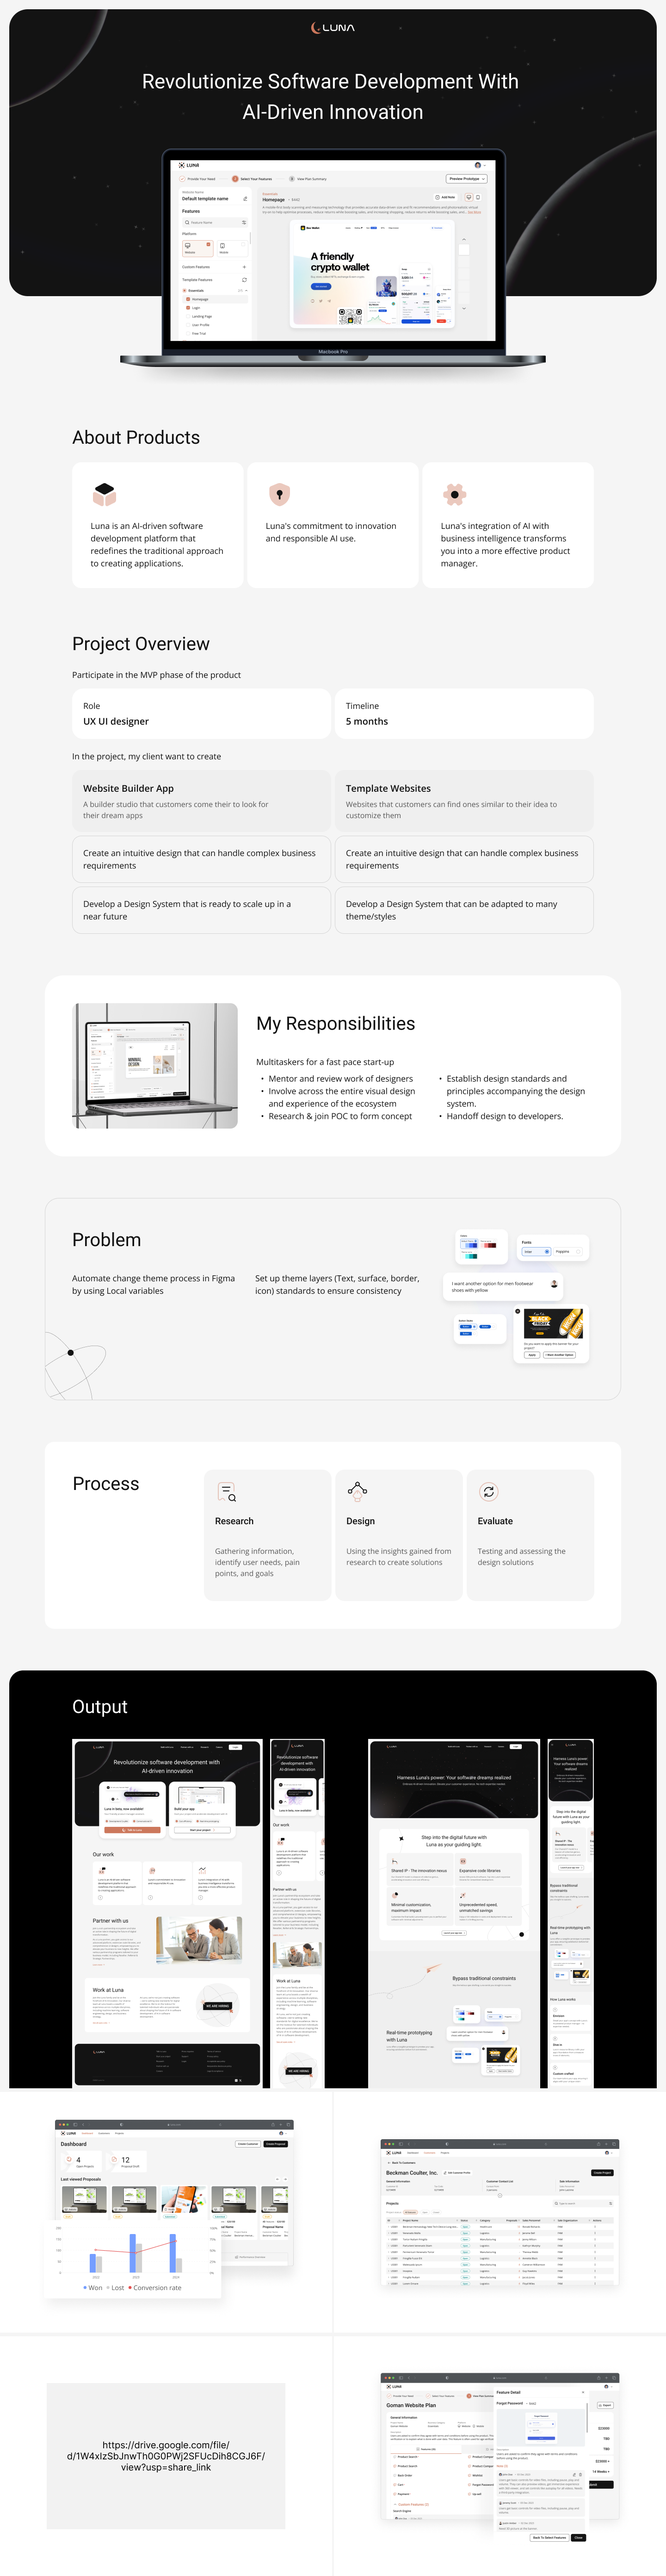
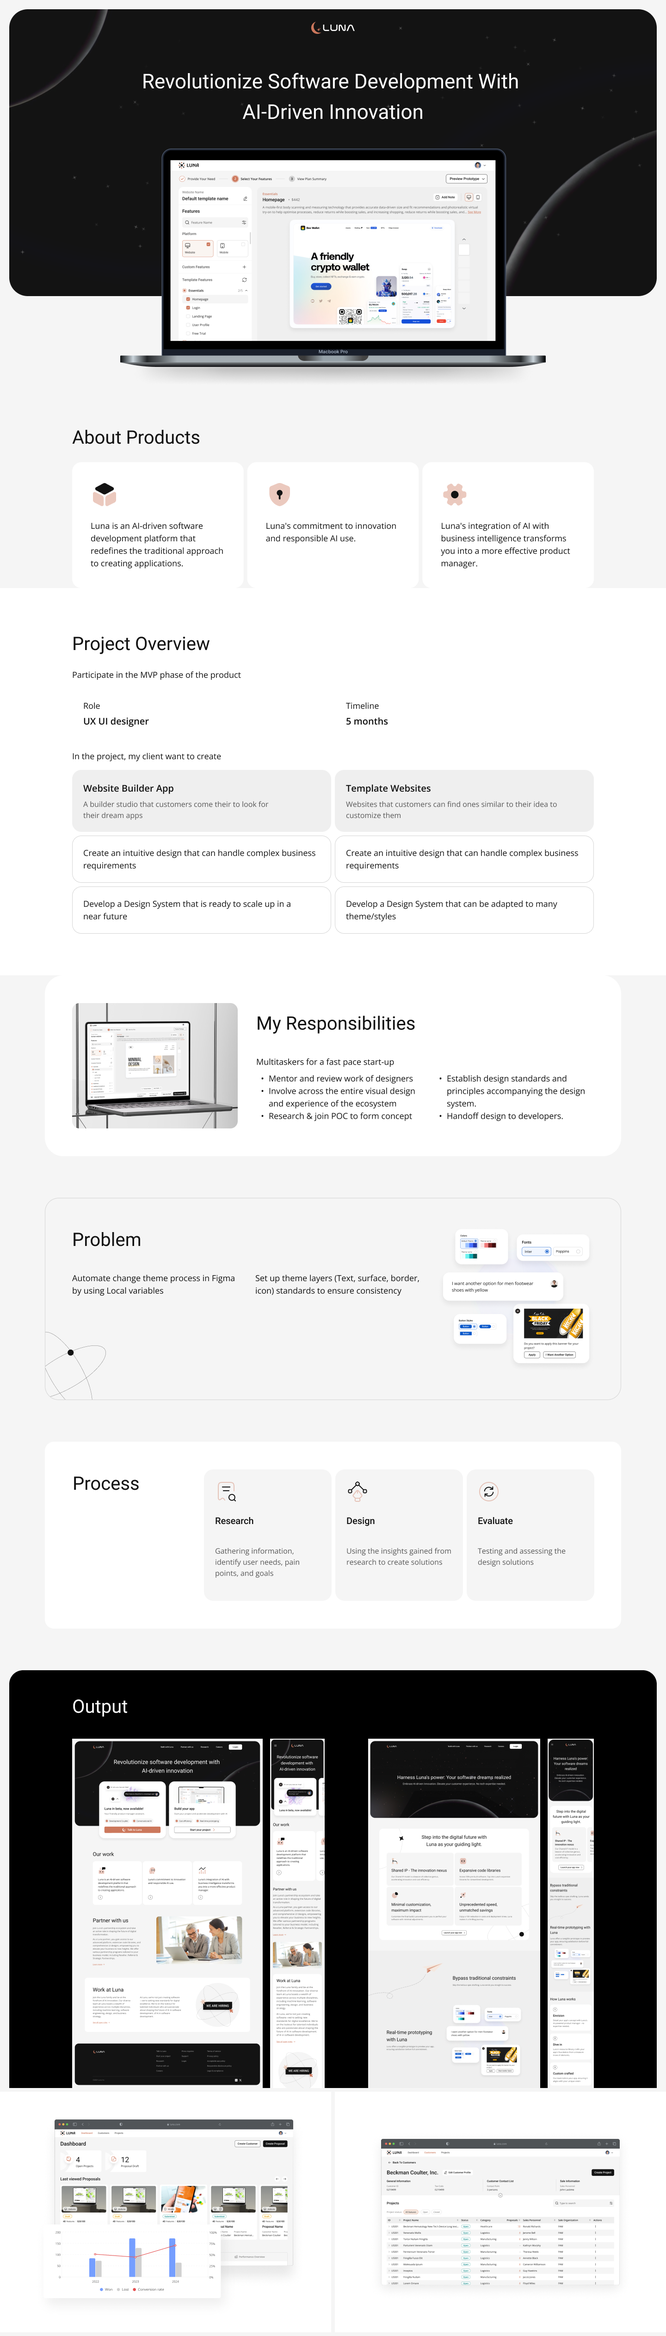
fix luna

diff --git a/src/components/projects/Luna.vue b/src/components/projects/Luna.vue
@@ -1,12 +1,24 @@
 <template>
-    <div class="2xl:px-[240px]">
-        <img :src="imageSrc" />
+    <div class="2xl:px-[240px] flex flex-col items-center justify-center m-auto">
+        <img :src="imageSrc" class="w-full"/>
+        <div class="flex xl:flex-row flex-col bg-color-[#f5f5f5]">
+            <img :src="imageEndSrc" class="w-full h-auto w-auto" v-if="imageEndSrc"/>
+            <div class="lg:py-[80px] lg:px-[68px] md:py-[100px] md:px-[114px] p-[16px] bg-white justify-center items-center gap-2.5 inline-flex">
+                <div class="lg:py-[143px] lg:px-[60px] md:py-[122px] md:px-[48px] py-[58px] px-[32px] bg-zinc-100 justify-center items-center gap-2.5 flex">
+                    <div class="grow shrink basis-0 text-center text-black text-xl font-normal font-['Inter'] break-all">
+                       <a href="https://drive.google.com/file/d/1W4xIzSbJnwTh0G0PWj2SFUcDih8CGJ6F/view?usp=share_link" target="_blank"> https://drive.google.com/file/d/1W4xIzSbJnwTh0G0PWj2SFUcDih8CGJ6F/view?usp=share_link
+                    </a>
+                    </div>
+                </div>
+            </div>
+        </div>
     </div>
 </template>
 <script>
 export default {
     data: () => ({
         imageSrc: '',
+        imageEndSrc: '',
     }),
     mounted() {
         this.updateImageSource();
@@ -21,12 +33,16 @@ export default {
             // Define your breakpoints and image sources
             if (screenWidth <= 375) {
                 this.imageSrc = require('@/assets/images/luna/Luna-mobile.png');
+                this.imageEndSrc = '';
             } else if (screenWidth <= 768) {
                 this.imageSrc = require('@/assets/images/luna/Luna-tablet.png');
+                this.imageEndSrc = '';
             } else if (screenWidth <= 1440) {
                 this.imageSrc = require('@/assets/images/luna/Luna-laptop.png');
+                this.imageEndSrc = require('@/assets/images/luna/Luna-desktop-end.png')
             } else {
                 this.imageSrc = require('@/assets/images/luna/Luna-desktop.png');
+                this.imageEndSrc = require('@/assets/images/luna/Luna-desktop-end.png');
             }
         },
     },

diff --git a/src/components/projects/mobile/HaloTrade.vue b/src/components/projects/mobile/HaloTrade.vue
@@ -250,7 +250,14 @@ export default {
                         </div>
 
                         <div class="h-12 px-6 py-2.5 bg-gray-900 rounded-xl justify-center items-center gap-4 inline-flex mt-8">
-                            <div class="text-center text-brand text-2xl font-semibold leading-loose">Dive in Now</div>
+                            <router-link
+                                to="/blogs/Building-smart-components-in-Figma"
+                                aria-label="Blogs"
+                                class="text-center text-brand text-2xl font-semibold leading-loose"
+                            >
+                                <Button title="Dive in Now" class="italic underline" />
+                                Dive in Now
+                            </router-link>
                         </div>
                     </div>
                 </div>

diff --git a/src/components/projects/mobile/CostcoWholesale.vue b/src/components/projects/mobile/CostcoWholesale.vue
@@ -328,7 +328,7 @@
                     <div class="px-4 py-2.5 bg-gray-900 rounded-xl border-2 border-blue-800 justify-center items-center gap-4 inline-flex">
                         <a
                             class="text-center text-neutral-200 text-xl font-semibold font-['Poppins'] leading-[25px]"
-                            href="https://maitranx.github.io/txmai-portfolio/?fbclid=IwAR0VPdmUeKtPQgnOvv1MeP2R1fayGtnkvTkhPp9f5TKvWlTVuQvq3qCY7GE#/blogs/Design-Dashboard-mobile-view-in-Power-BI"
+                            href="/#/blogs/Design-Dashboard-mobile-view-in-Power-BI"
                             >Dive in Now</a
                         >
                     </div>

diff --git a/src/components/projects/CostcoWholesale.vue b/src/components/projects/CostcoWholesale.vue
@@ -327,7 +327,7 @@
                     <div class="h-12 px-6 py-2.5 bg-gray-900 rounded-xl border-2 border-blue-800 justify-center items-center gap-4 inline-flex">
                         <a
                             class="text-center text-neutral-200 text-2xl font-semibold leading-[30px]"
-                            href="https://maitranx.github.io/txmai-portfolio/?fbclid=IwAR0VPdmUeKtPQgnOvv1MeP2R1fayGtnkvTkhPp9f5TKvWlTVuQvq3qCY7GE#/blogs/Design-Dashboard-mobile-view-in-Power-BI"
+                            href="/#/blogs/Design-Dashboard-mobile-view-in-Power-BI"
                             >Dive in Now</a
                         >
                     </div>

diff --git a/src/components/blogs/Blog3.vue b/src/components/blogs/Blog3.vue
@@ -38,7 +38,7 @@
                 </div>
                 <div class="flex flex-col items-center pt-4">
                     <div>
-                        <img src="@/assets/images/blog/blog-3/Img-3.png" alt="blog" />
+                        <img src="@/assets/images/blog/blog-3/img-3.png" alt="blog" />
                     </div>
                 </div>
             </div>
